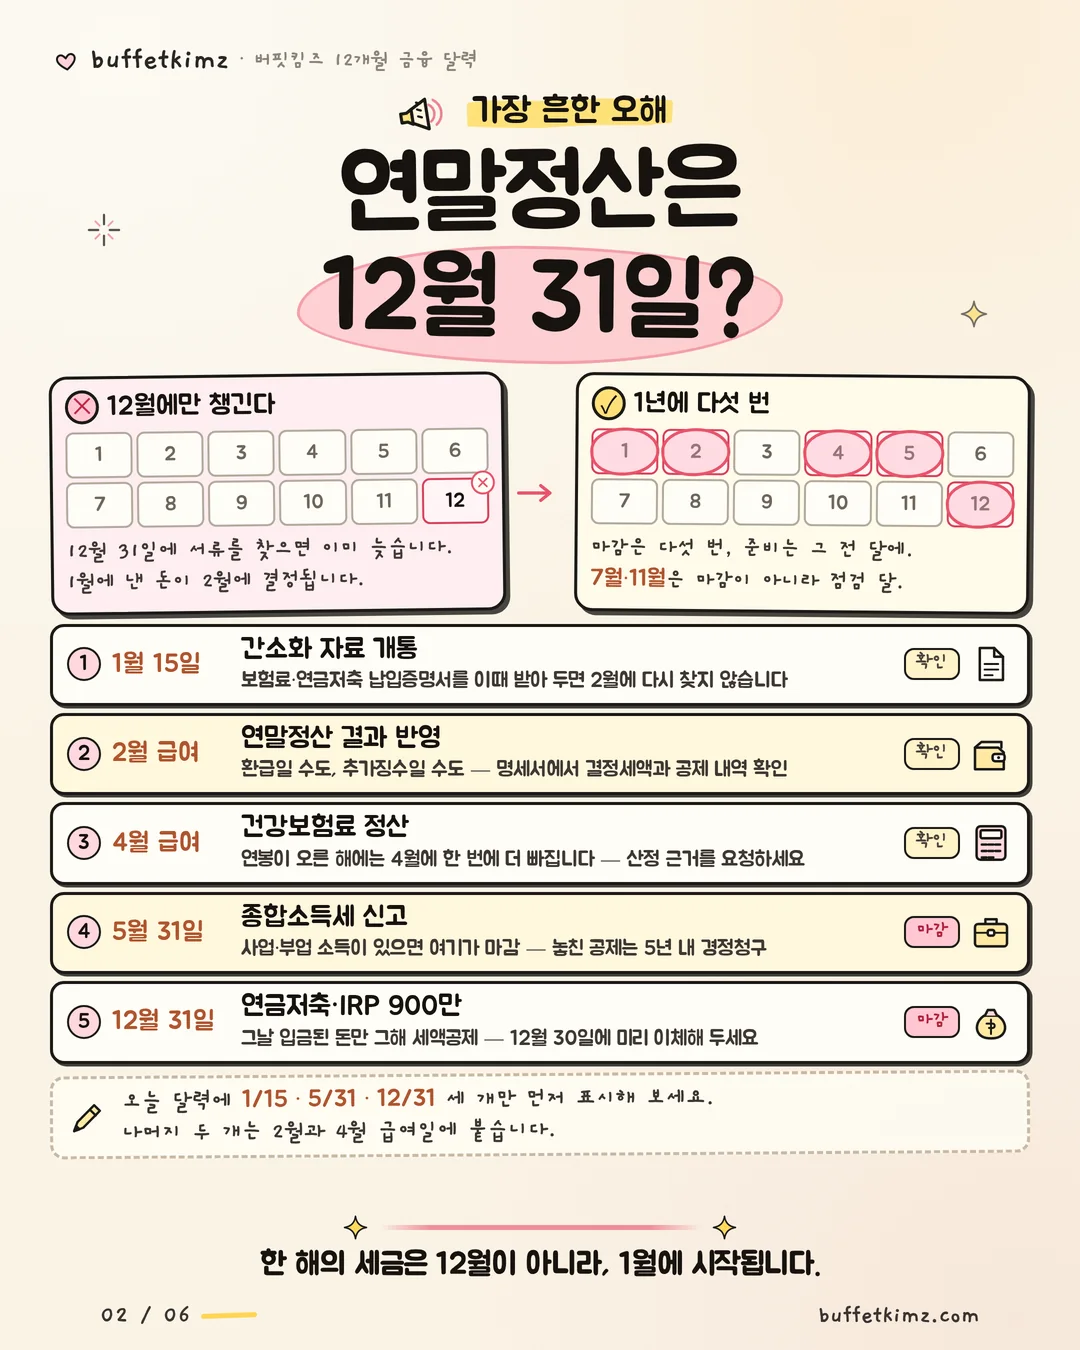
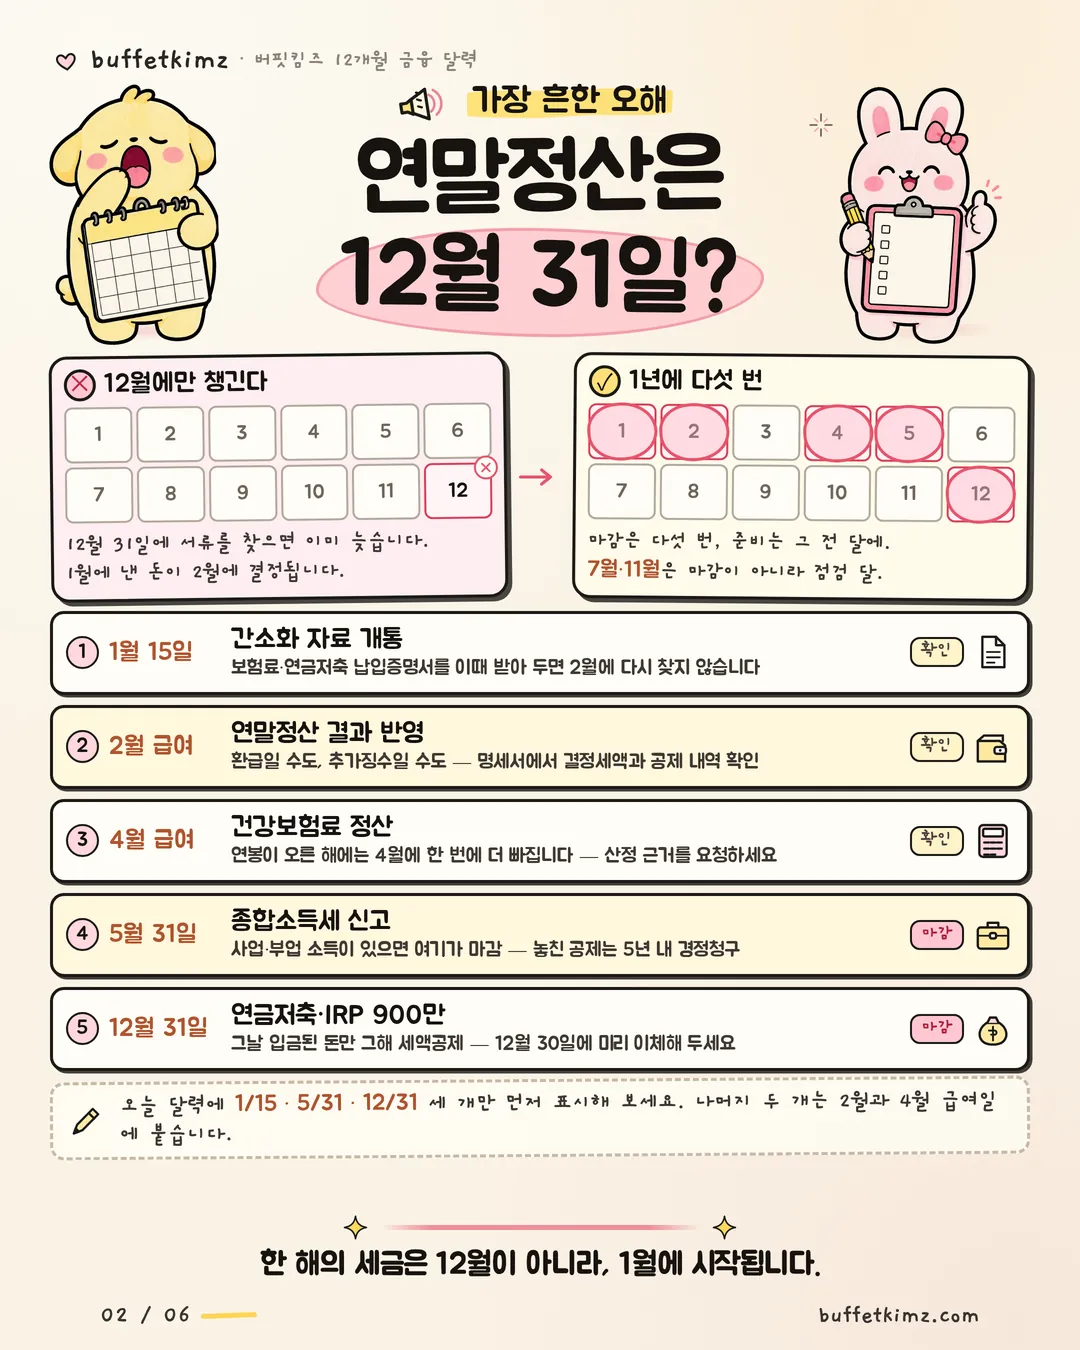
feat(gallery): 12개월 금융 달력 6장에 손그림 캐릭터 반영

Changed region(s): [[0.0306, 0.0622, 0.9778, 0.8711]]

diff --git a/src/data/gallery.ts b/src/data/gallery.ts
@@ -762,42 +762,42 @@ export const galleryItems: GalleryItem[] = [
         src: "/gallery/finance-calendar-hand/01.webp",
         width: W,
         height: H,
-        alt: "표지 — 1월부터 12월까지 열두 칸 달력 카드에 월별 마감과 할 일, 아래에 '마감은 딱 다섯 번' 띠",
+        alt: "표지 — 1월부터 12월까지 열두 칸 달력 카드에 월별 마감과 할 일, 아래에 '마감은 딱 다섯 번' 띠, 오른쪽에 달력을 안은 손그림 캐릭터",
         caption: "표지 — 12개월 금융 달력, 1년에 다섯 번만 보면 끝납니다",
       },
       {
         src: "/gallery/finance-calendar-hand/02.webp",
         width: W,
         height: H,
-        alt: "오해 vs 팩트 — 왼쪽은 12월 칸에만 엑스가 찍힌 달력, 오른쪽은 1·2·4·5·12월 다섯 칸에 동그라미를 친 달력과 다섯 줄 마감 목록",
+        alt: "오해 vs 팩트 — 위쪽에 계산기를 든 강아지와 체크리스트를 든 토끼 캐릭터, 왼쪽은 12월 칸에만 엑스가 찍힌 달력, 오른쪽은 1·2·4·5·12월 다섯 칸에 동그라미를 친 달력과 다섯 줄 마감 목록",
         caption: "오해 vs 팩트 — 12월 31일에만 챙긴다 / 1년에 다섯 번",
       },
       {
         src: "/gallery/finance-calendar-hand/03.webp",
         width: W,
         height: H,
-        alt: "1·2·3월 — 세 달 카드에 1월 15일 간소화 자료 개통, 2월 환급·추가징수, 3월 10일 지급명세서 제출과 체크 항목",
+        alt: "1·2·3월 — 오른쪽에 서류 폴더를 안은 손그림 캐릭터, 세 달 카드에 1월 15일 간소화 자료 개통, 2월 환급·추가징수, 3월 10일 지급명세서 제출과 체크 항목",
         caption: "1·2·3월 — 서류 챙기기, 1월 15일 간소화 개통부터 3월 지급명세서까지",
       },
       {
         src: "/gallery/finance-calendar-hand/04.webp",
         width: W,
         height: H,
-        alt: "4·5·6월 — 돈이 가장 많이 빠져나가는 계절, 4월 건보료 정산과 5월 31일 종합소득세 신고, 6월 600·900 반기 점검",
+        alt: "4·5·6월 — 양옆에 계산기를 든 강아지와 저금통 캐릭터, 4월 건보료 정산과 5월 31일 종합소득세 신고, 6월 600·900 반기 점검",
         caption: "4·5·6월 — 4월 건보료 정산, 5월 31일 종합소득세, 6월 반기 점검",
       },
       {
         src: "/gallery/finance-calendar-hand/05.webp",
         width: W,
         height: H,
-        alt: "7·8·9월 — 7월 1일 연금 기준 변경, 8월 보험료율 결정, 9월 4분기 납입 계획과 체크 항목",
+        alt: "7·8·9월 — 오른쪽에 선글라스를 올린 채 계획표를 든 손그림 캐릭터, 7월 1일 연금 기준 변경, 8월 보험료율 결정, 9월 4분기 납입 계획과 체크 항목",
         caption: "7·8·9월 — 7월 기준 변경, 8월 보험료율 결정, 9월 4분기 납입 설계",
       },
       {
         src: "/gallery/finance-calendar-hand/06.webp",
         width: W,
         height: H,
-        alt: "10·11·12월 — 10월 25일 부가세 예정신고, 11월 30일 중간예납과 미리보기, 12월 31일 연금저축·IRP 900만 마감",
+        alt: "10·11·12월 — 양옆에 통장을 든 캐릭터와 체크리스트를 든 토끼, 10월 25일 부가세 예정신고, 11월 30일 중간예납과 미리보기, 12월 31일 연금저축·IRP 900만 마감",
         caption: "10·11·12월 — 10월 부가세, 11월 미리보기, 12월 31일 900만 마감",
       },
     ],
